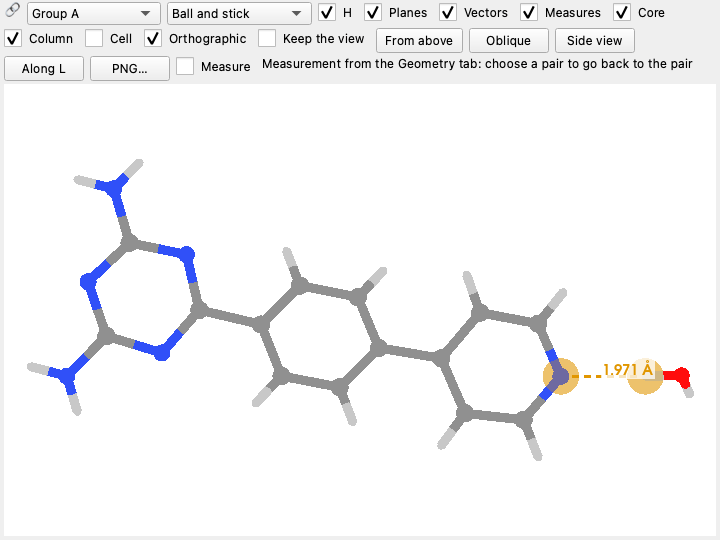
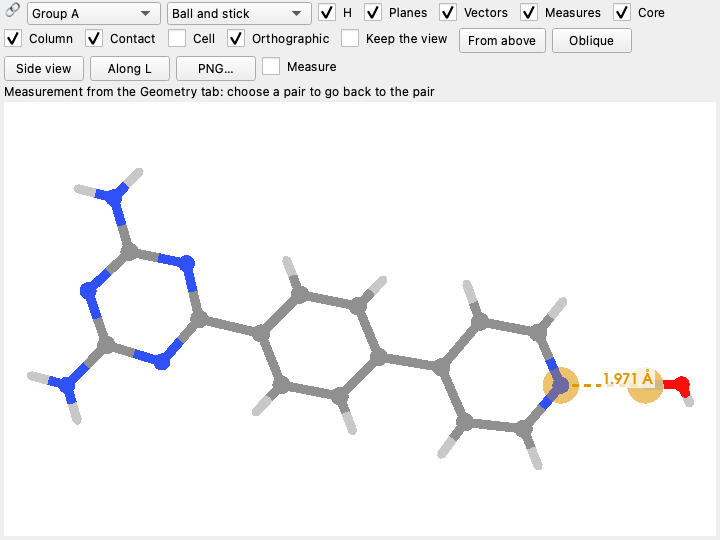
Contatto più corto nella 3D, manuale inglese allineato all'italiano

Changed region(s): [[0.0306, 0.2963, 0.9778, 0.8889], [0.0, 0.0593, 0.9472, 0.1778]]

diff --git a/pistak/gui/views/view3d.py b/pistak/gui/views/view3d.py
@@ -21,7 +21,7 @@ from PySide6.QtWidgets import QCheckBox, QComboBox, QFileDialog, QLabel, QPushBu
 from pistak.core.config import load_section
 from pistak.core.elements import vdw_radius
 from pistak.gui import theme
-from pistak.gui.scene import Scene, build_measure_scene, build_scene, nearest_atom, pick_measure, scene_frame
+from pistak.gui.scene import Scene, build_measure_scene, build_scene, contact_measure, nearest_atom, pick_measure, scene_frame
 from pistak.gui.session import Session
 from pistak.gui.views.base import PairView
 from pistak.i18n import tf, tr
@@ -41,6 +41,7 @@ class Options:
     highlight_core: bool = True
     labels: bool = True
     ortho: bool = True  # proiezione ortogonale: dall'alto la vista coincide con la Proiezione
+    show_contact: bool = True  # il contatto più corto tra atomi pesanti delle due molecole
 
 
 def _sticks(scene: Scene, colors: np.ndarray, radius: float, sides: int = 14) -> pv.PolyData | None:
@@ -127,6 +128,9 @@ def populate(plotter: pv.Plotter, scene: Scene, opts: Options, sphere_scale: flo
         for a, b in scene.box:
             plotter.add_mesh(pv.Line(a, b), color="gray", line_width=px, opacity=0.6, pickable=False)
     draw_measure(plotter, scene, scene.highlight, scene.measure_paths, scene.measure_labels, opts, sphere_scale, px)
+    if opts.show_contact:
+        atoms_, paths, labels, _text = contact_measure(scene)
+        draw_measure(plotter, scene, atoms_, paths, labels, opts, sphere_scale, px)
 
 
 def draw_measure(plotter: pv.Plotter, scene: Scene, atoms, paths, labels, opts: Options, sphere_scale: float = 0.28,
@@ -246,6 +250,8 @@ class View3D(PairView):
                                 ("show_measures", tr("Misure"), tr("Assi L, W, n della coppia con i valori misurati lungo ciascuno")),
                                 ("highlight_core", tr("Nucleo"), tr("Ingrandisce gli atomi del nucleo π")),
                                 ("show_column", tr("Colonna"), tr("Mostra le altre molecole della colonna di stack (grigio)")),
+                                ("show_contact", tr("Contatto"), tr("Il contatto più corto tra atomi pesanti delle due molecole (la colonna "
+                                                                     "«Contatto»): i due atomi cerchiati e la distanza")),
                                 ("show_cell", tr("Cella"), tr("Spigoli della cella elementare")),
                                 ("ortho", tr("Ortogonale"), tr("Proiezione ortogonale, senza prospettiva: vista dall'alto coincide con la Proiezione"))):
             cb = QCheckBox(text)
@@ -582,6 +588,8 @@ class View3D(PairView):
         text = pick_measure(self.scene, self.picks)[2] if self.scene is not None else ""
         if not text and self.measure is not None:
             text = tr("Misura dalla scheda Geometria: scegli una coppia per tornare alla coppia")
+        if not text and self.scene is not None and self.opts.show_contact and self.scene.contact is not None:
+            text = f"{tr('Contatto più corto')}: {contact_measure(self.scene)[3]}"
         self.pick_info.setText(text)
 
     def extra_state(self) -> dict:

diff --git a/pistak/gui/scene.py b/pistak/gui/scene.py
@@ -10,6 +10,7 @@ from __future__ import annotations
 from dataclasses import dataclass, field
 
 import numpy as np
+from scipy.spatial.distance import cdist
 
 from pistak.core.analysis import PairContext
 from pistak.core.elements import CYAN_CARBON, color, covalent_radius, vdw_radius
@@ -111,6 +112,8 @@ class Scene:
     measure_labels: list[Label] = field(default_factory=list)
     #: Assi per l'inquadratura quando la scena non è di una coppia.
     frame: SceneFrame | None = None
+    #: Il contatto più corto tra atomi pesanti delle due molecole (la colonna «Contatto»): (atomo A, atomo B, Å).
+    contact: tuple[int, int, float] | None = None
 
 
 def _plane_polygon(points: np.ndarray, centroid: np.ndarray, normal: np.ndarray, long: np.ndarray, margin: float = 0.5) -> np.ndarray:
@@ -203,6 +206,12 @@ def build_scene(ctx: PairContext, show_h: bool = True, show_cell: bool = False, 
                                   ((p2 + p3) / 2 + f.W * sw * 0.7, dn, COLOR_N, "n")):
         scene.labels.append(Label(pos, f"{name} {abs(value):.2f} Å", col))
     scene.markers += [Marker(ca.centroid, COLOR_PLANE_A, 0.16, "Cg A"), Marker(cb.centroid, COLOR_PLANE_B, 0.16, "Cg B")]
+    # dove sta il contatto più corto tra le due molecole (gli atomi pesanti, come `Pair.contact`)
+    ha, hb = np.flatnonzero(A.heavy), np.flatnonzero(B.heavy)
+    if not ctx.pair.intramolecular and len(ha) and len(hb):
+        dist = cdist(ctx.pos_a[ha], ctx.pos_b[hb])
+        i, j = np.unravel_index(int(np.argmin(dist)), dist.shape)
+        scene.contact = (int(ia[ha[i]]), int(ib[hb[j]]), float(dist[i, j]))
 
     if show_column:
         col = ctx.analysis.column_for(ctx.pair)
@@ -271,6 +280,16 @@ def build_measure_scene(structure: Structure, item: GeometryItem, show_h: bool =
     scene.size = float(np.linalg.norm(pos.max(axis=0) - pos.min(axis=0))) if len(pos) else 10.0
     scene.frame = SceneFrame.of(pos, pts[-1] - pts[0] if len(pts) >= 2 else None) if len(pos) else None
     return scene
+
+
+def contact_measure(scene: Scene) -> tuple[list[int], list[Path], list[Label], str]:
+    """Il contatto più corto della scena di una coppia come misura: atomi, linea tratteggiata, valore e testo."""
+    if scene.contact is None:
+        return [], [], [], ""
+    i, j, d = scene.contact
+    pts = scene.pos[[i, j]]
+    text = f"{scene.names[i]}···{scene.names[j]} {d:.2f} Å" if scene.names else f"{d:.2f} Å"
+    return [i, j], [Path(pts, COLOR_MEASURE, 0.03, dashed=True)], [Label(pts.mean(axis=0), f"{d:.2f} Å", COLOR_MEASURE, 15)], text
 
 
 def scene_frame(scene: Scene) -> SceneFrame:

diff --git a/tests/test_measure3d.py b/tests/test_measure3d.py
@@ -119,3 +119,31 @@ def test_la_misura_resta_se_la_vista_si_aggiorna(gui, hydrate):
     assert v.measure is c and v.scene.highlight
     s._apply(api.analyse_file(EX / "herringbone_anthracene.cif"))  # un'altra analisi: si torna alla coppia
     assert v.measure is None and v.ctx is not None
+
+
+def test_contatto_piu_corto_nella_scena_della_coppia():
+    # la colonna «Contatto» del Dettaglio (Pair.contact): nella 3D si vede tra quali atomi sta
+    from pistak.gui.scene import contact_measure
+
+    a = api.analyse_file(COD / "2012157.cif")
+    for p in a.pairs:
+        sc = build_scene(a.pair_context(p))
+        i, j, d = sc.contact
+        assert d == pytest.approx(p.contact) and np.linalg.norm(sc.pos[i] - sc.pos[j]) == pytest.approx(d)
+        assert sc.molecule[i] == 0 and sc.molecule[j] == 1 and sc.el[i] != "H" and sc.el[j] != "H"
+        atoms, paths, labels, text = contact_measure(sc)
+        assert atoms == [i, j] and paths[0].dashed and labels[0].text == f"{d:.2f} Å" and "(B)" in text
+
+
+def test_contatto_nella_barra_della_3d(gui):
+    from pistak.gui.session import Session
+    from pistak.gui.views.view3d import View3D
+
+    s = Session()
+    v = View3D(s, "A")
+    s._apply(api.analyse_file(COD / "2012157.cif"))
+    s.select("A", 1)
+    assert v.pick_info.text().endswith(f"{s.analysis.pairs[1].contact:.2f} Å")
+    v.boxes["show_contact"].setChecked(False)
+    v._draw(keep_camera=True)
+    assert v.pick_info.text() == ""

diff --git a/pistak/i18n_en.py b/pistak/i18n_en.py
@@ -432,6 +432,9 @@ TEXT: dict[str, str] = {
     "Distanza tra i centroidi": "Distance between centroids",
     "|d|: distanza tra i baricentri dei due nuclei π.": "|d|: distance between the centroids of the two π cores.",
     "Contatto più corto": "Shortest contact",
+    "Contatto": "Contact",
+    "Il contatto più corto tra atomi pesanti delle due molecole (la colonna «Contatto»): i due atomi cerchiati e la distanza":
+        "The shortest contact between heavy atoms of the two molecules (the \"Contact\" column): the two atoms circled and the distance",
     "Distanza minima tra atomi pesanti delle due molecole.": "Minimum distance between heavy atoms of the two molecules.",
     "Frazione degli atomi di un nucleo che cade, in proiezione, dentro il contorno dell'altro.":
         "Fraction of the atoms of one core that fall, in projection, inside the outline of the other.",

diff --git a/pistak/manual/it.md b/pistak/manual/it.md
@@ -177,7 +177,9 @@ La coppia selezionata: la molecola A con i colori degli elementi e il piano medi
 piano azzurri; *Nucleo* ingrandisce gli atomi dei nuclei π, *H* mostra gli idrogeni; con *Colonna* le altre molecole
 della colonna di stack in grigio chiaro. *Piani* disegna i piani medi, *Vettori* la scomposizione dello slittamento (L rosso,
 W verde, distanza interplanare blu), *Misure* gli assi L, W, n che passano per Cg A con il valore di ogni componente
-(gli stessi della tabella), *Cella* gli spigoli della cella. Stili: sfere e bastoncini, bastoncini, spazio
+(gli stessi della tabella), *Contatto* il contatto più corto tra atomi pesanti delle due molecole (la colonna «Contatto» del
+Dettaglio: i due atomi cerchiati, la distanza tratteggiata e i loro nomi nella barra, per esempio `C1···C10 (B) 3.66 Å`),
+*Cella* gli spigoli della cella. Stili: sfere e bastoncini, bastoncini, spazio
 occupato (vdW). Le viste predefinite: *Dall'alto* (perpendicolare ai piani), *Obliqua*, *Di lato*, *Lungo L*.
 La 3D parte *Dall'alto* e in proiezione *Ortogonale* (senza prospettiva): L a destra, W in alto, stesso centro
 della **Proiezione**, così le due viste coincidono; finché non si muove la camera l'inquadratura segue le dimensioni
@@ -218,7 +220,7 @@ Otto schede:
 | Anelli | coppie di anelli planari, uno per molecola (stile Janiak): Cg···Cg, α (angolo tra i piani), β e γ (Cg→normale di A e di B), distanze perpendicolari ⟂A e ⟂B, slittamento, contatto minimo; fino a `ring_pair_max_distance` |
 | Colonne | colonne di stack: tipo (aggregato, colonna, strato, rete 3D), molecole, passo, asse, geometria media |
 | Avvisi | plugin che non si caricano e parametri che hanno dato errore, con il messaggio |
-| Contatti | riepilogo per contatto tra molecole: coppie di frammenti, quante π-stack, contatto più corto, coppia migliore (doppio clic la seleziona) |
+| Contatti | riepilogo per contatto tra molecole: coppie di frammenti, quante π-stack, contatto più corto tra atomi pesanti, coppia migliore (doppio clic la seleziona: la 3D mostra tra quali atomi sta il contatto più corto) |
 | Geometria | legami, angoli, torsioni e contatti di van der Waals delle molecole indipendenti, con le s.u. e i codici di simmetria; *Idrogeni* li toglie; doppio clic: la misura nella 3D (vedi [Geometria delle molecole](#geometria-delle-molecole)) |
 | Controlli | gli avvisi A, B, C, G dei [controlli rapidi](#grandezze-della-struttura-e-controlli-rapidi), colorati per gravità |
 

diff --git a/pistak/manual/en.md b/pistak/manual/en.md
@@ -177,7 +177,9 @@ The selected pair: molecule A with element colours and an orange mean plane, mol
 *Core* enlarges the atoms of the π cores, *H* shows hydrogens; with *Column* the other molecules of the stack column
 appear in light grey. *Planes* draws the mean planes, *Vectors* the slip decomposition (L red, W green, interplanar
 distance blue), *Measures* the L, W, n axes through Cg A with the value of each component (the same as in the
-table), *Cell* the cell edges. Styles: ball and stick, sticks, space-filling (vdW). Preset views: *From above*
+table), *Contact* the shortest contact between heavy atoms of the two molecules (the "Contact" column of the Detail:
+the two atoms circled, the distance dashed and their names in the toolbar, for example `C1···C10 (B) 3.66 Å`),
+*Cell* the cell edges. Styles: ball and stick, sticks, space-filling (vdW). Preset views: *From above*
 (perpendicular to the planes), *Oblique*, *Side view*, *Along L*. The 3D view starts *From above* with an
 *Orthographic* projection (no perspective): L to the right, W up, same centre as the **Projection**, so the two views
 match; until you move the camera the framing follows the panel size. Untick *Orthographic* to get perspective back.
@@ -217,7 +219,7 @@ Eight tabs:
 | Rings | planar ring pairs, one ring per molecule (Janiak style): Cg···Cg, α (angle between planes), β and γ (Cg→normal of A and of B), perpendicular distances ⟂A and ⟂B, slippage, closest contact; up to `ring_pair_max_distance` |
 | Columns | stack columns: type (aggregate, column, layer, 3D network), molecules, step, axis, mean geometry |
 | Warnings | plugins that failed to load and parameters that raised errors, with the message |
-| Contacts | summary per molecule contact: fragment pairs, how many π-stacks, shortest contact, best pair (double click selects it) |
+| Contacts | summary per molecule contact: fragment pairs, how many π-stacks, shortest heavy-atom contact, best pair (double click selects it: the 3D view shows between which atoms the shortest contact lies) |
 | Geometry | bonds, angles, torsions and van der Waals contacts of the independent molecules, with s.u. and symmetry codes; *Hydrogens* hides them; double-click: the measurement in 3D (see [Molecular geometry](#molecular-geometry)) |
 | Checks | the A, B, C, G alerts of the [quick checks](#structure-quantities-and-quick-checks), coloured by severity |
 
